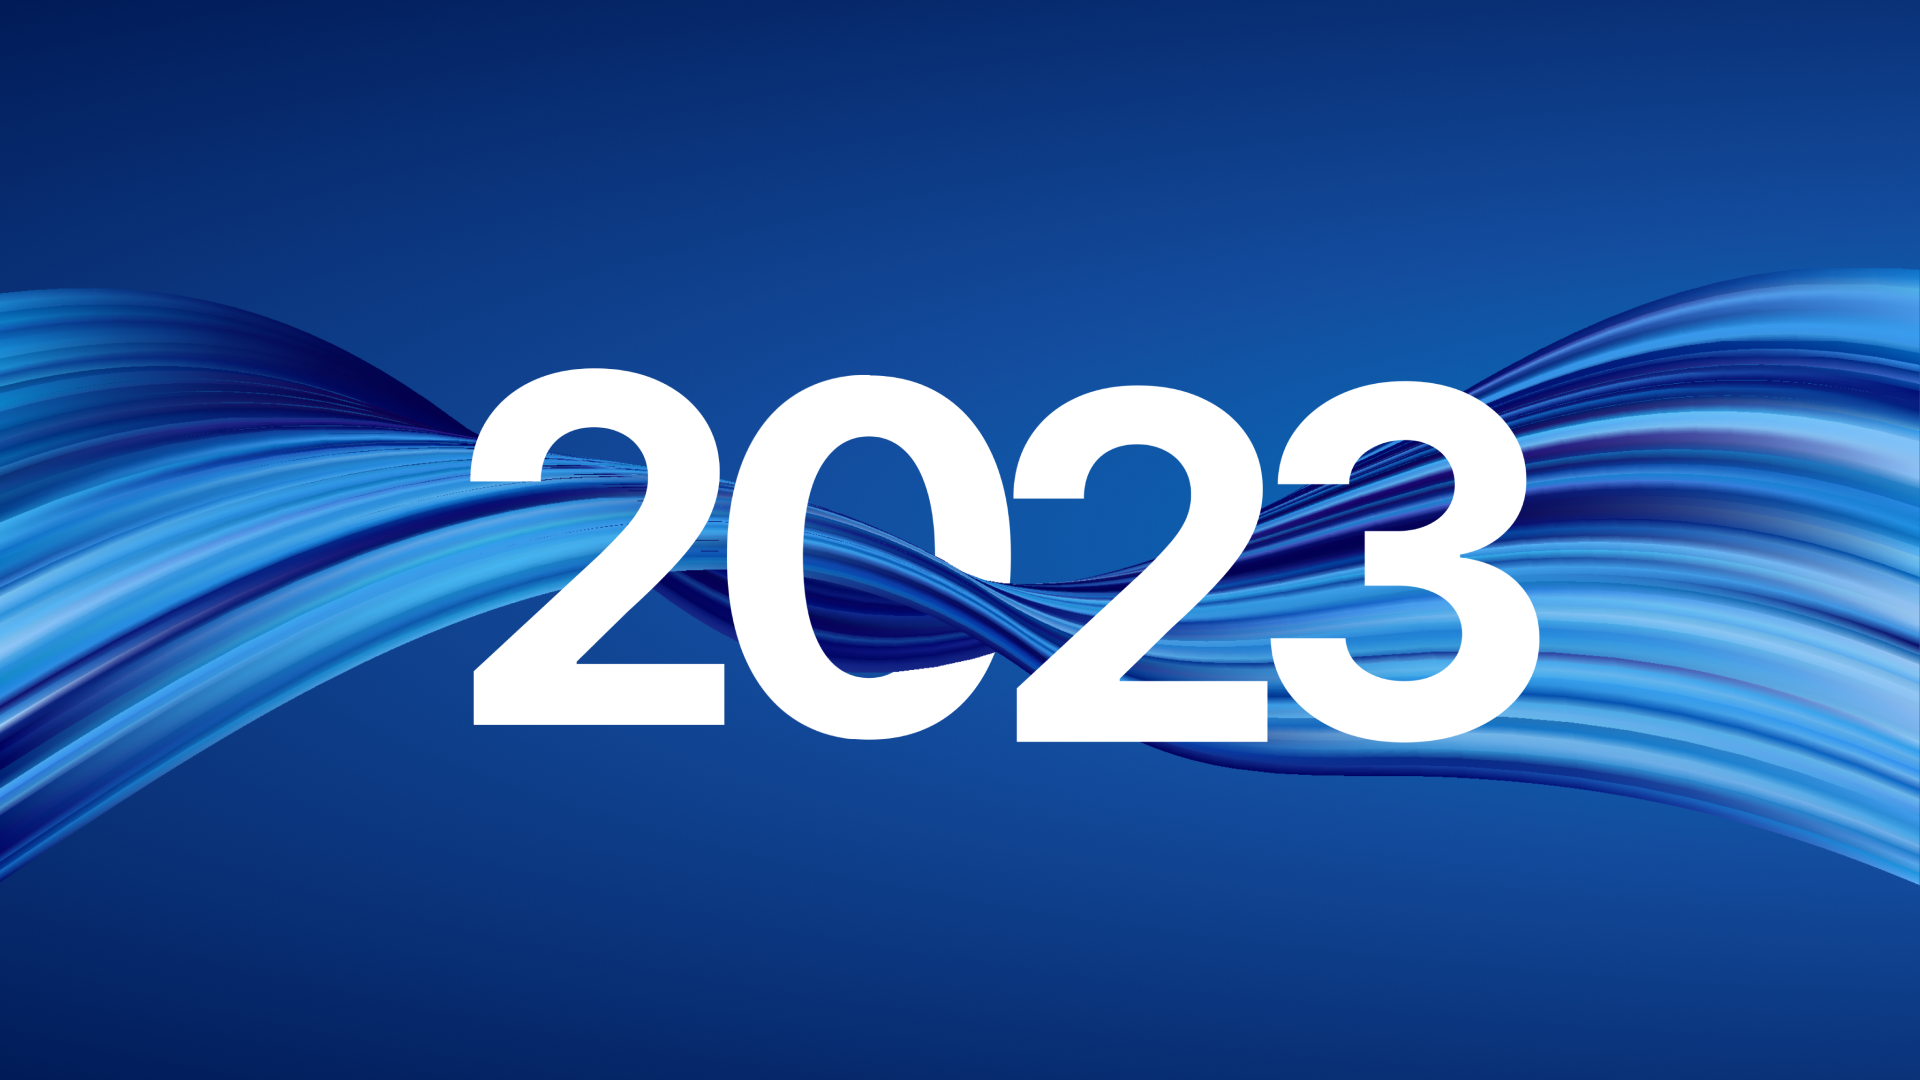
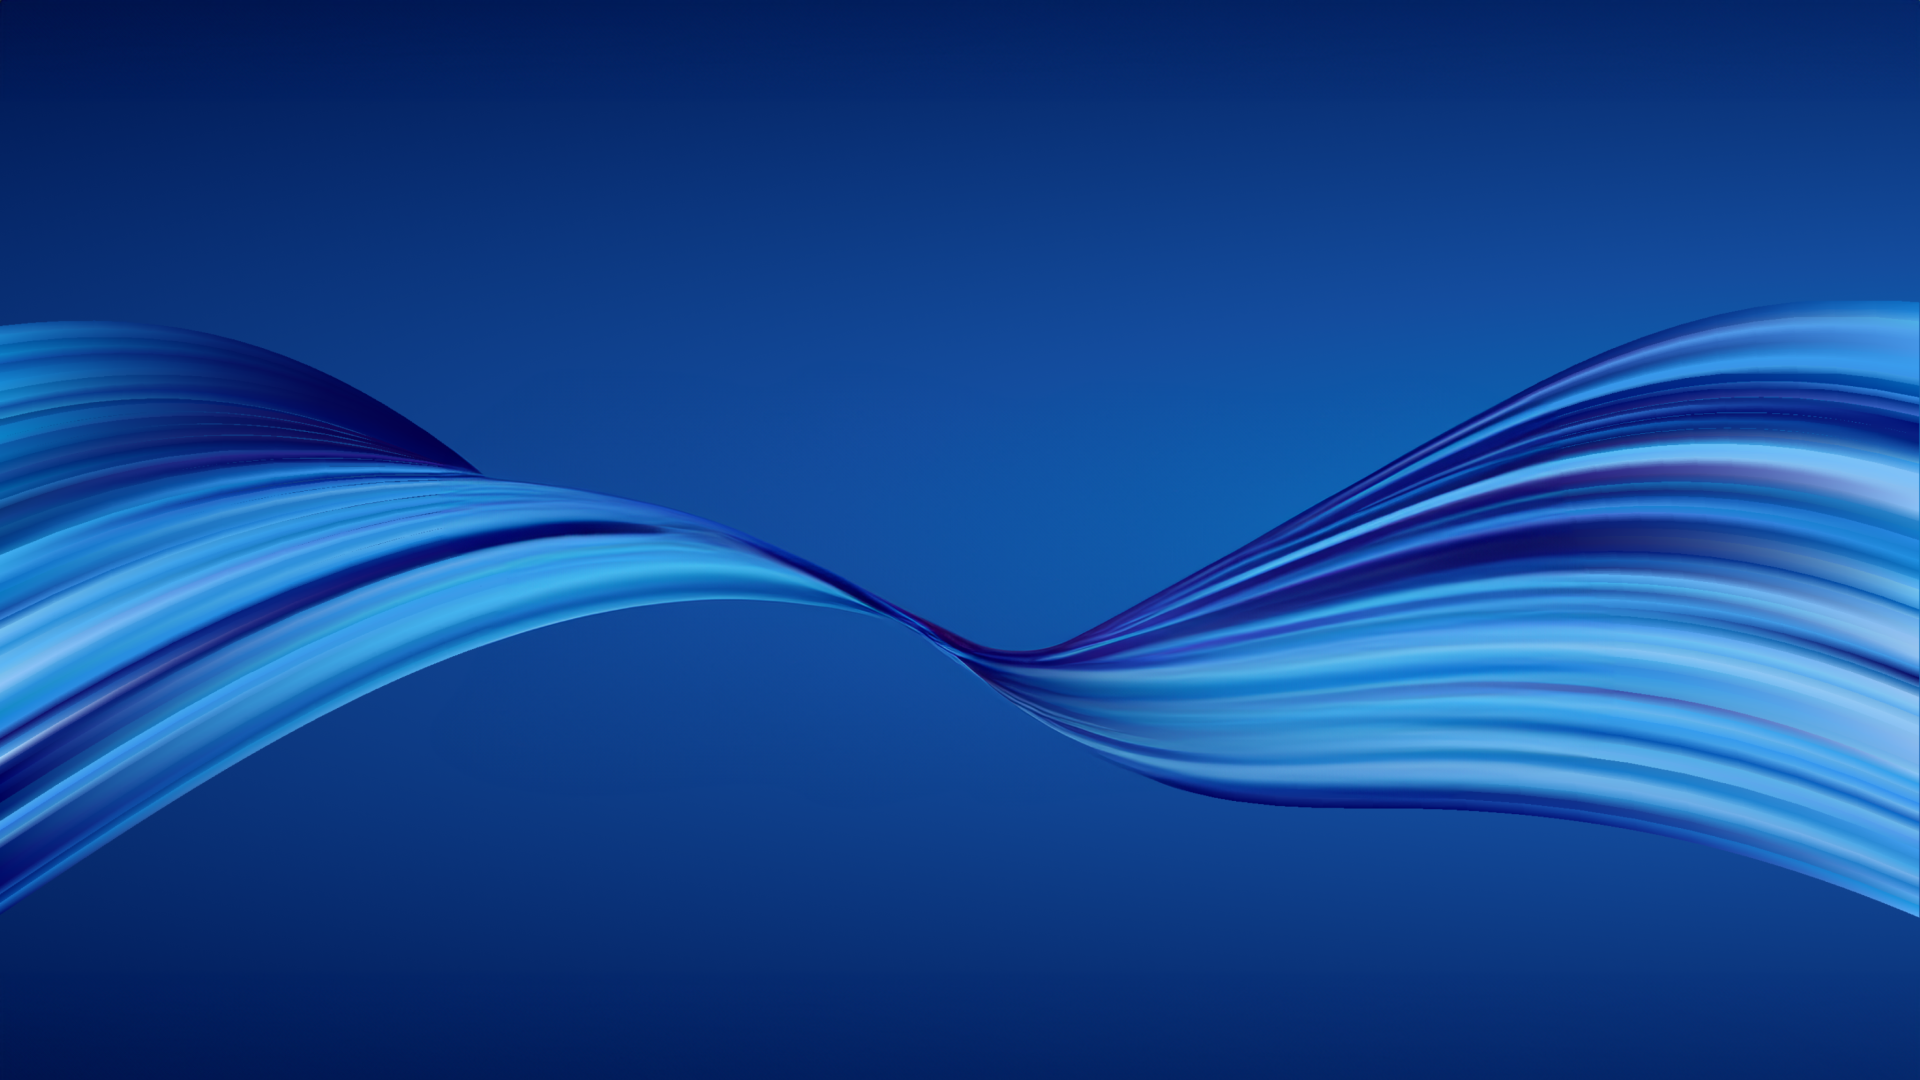
feat: update background and main buttons

Changed region(s): [[0.0, 0.2444, 1.0, 0.8556]]

diff --git a/src/index.css b/src/index.css
@@ -4,11 +4,25 @@
 
 @layer components {
   .btn-primary {
-    @apply uppercase bg-orange-500 rounded-md px-5 py-1 text-3xl text-white hover:bg-orange-400;
+    @apply flex items-center justify-center uppercase text-3xl text-white px-8 py-1 rounded-lg;
+    border: 3px solid #ffad53;
+    background: var(
+      --Linear,
+      linear-gradient(82deg, #f0881d 15.21%, #ffad53 107.19%)
+    );
+    box-shadow: 0px 0px 10px 0px rgba(255, 255, 255, 0.7);
+    text-shadow: 0px 4px 4px rgba(0, 0, 0, 0.25);
   }
 
   .btn-secondary {
-    @apply uppercase bg-blue-600 rounded-md px-5 py-1 text-3xl text-white hover:bg-blue-400;
+    @apply flex items-center justify-center uppercase text-3xl text-white px-8 py-1 rounded-lg;
+    border: 3px solid #449ce4;
+    background: var(
+      --Linear,
+      linear-gradient(78deg, #1368bc 17.82%, #449ce4 109.35%, #c9e9fb 143.61%)
+    );
+    box-shadow: 0px 0px 10px 0px rgba(255, 255, 255, 0.7);
+    text-shadow: 0px 4px 4px rgba(0, 0, 0, 0.25);
   }
 
   .btn-tertiary {

diff --git a/src/routes/root.tsx b/src/routes/root.tsx
@@ -2,7 +2,7 @@ import { Link, Outlet } from "react-router-dom";
 
 export const Root = () => {
   return (
-    <div className="">
+    <div className="bg-main bg-cover">
       <div className="container mx-auto p-8 h-screen flex flex-col">
         <header className="mb-12">
           <Link to="/">
